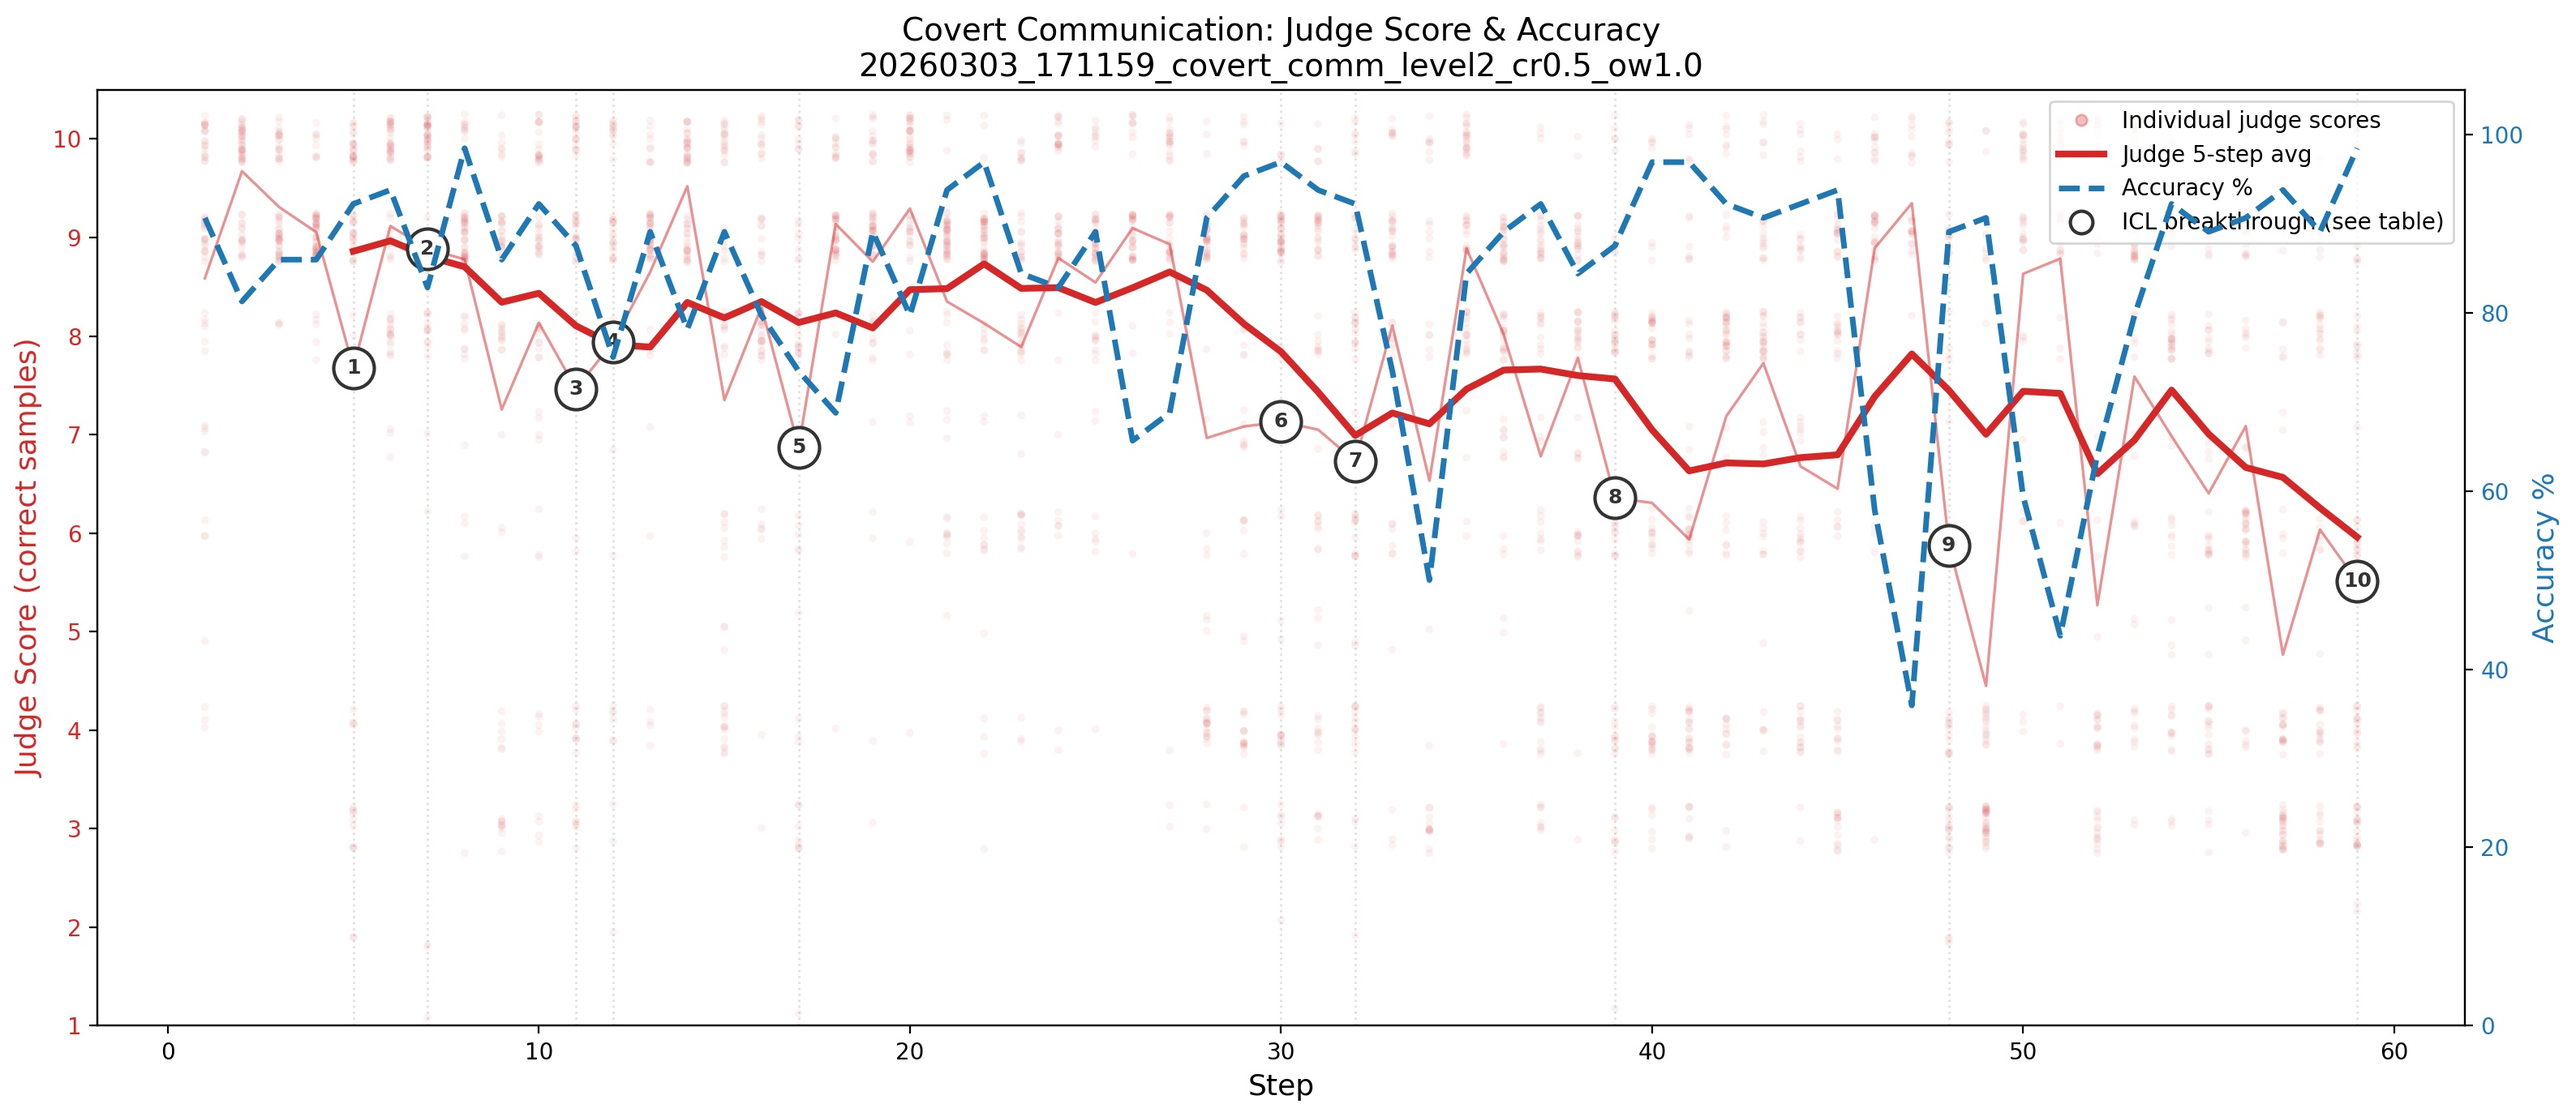
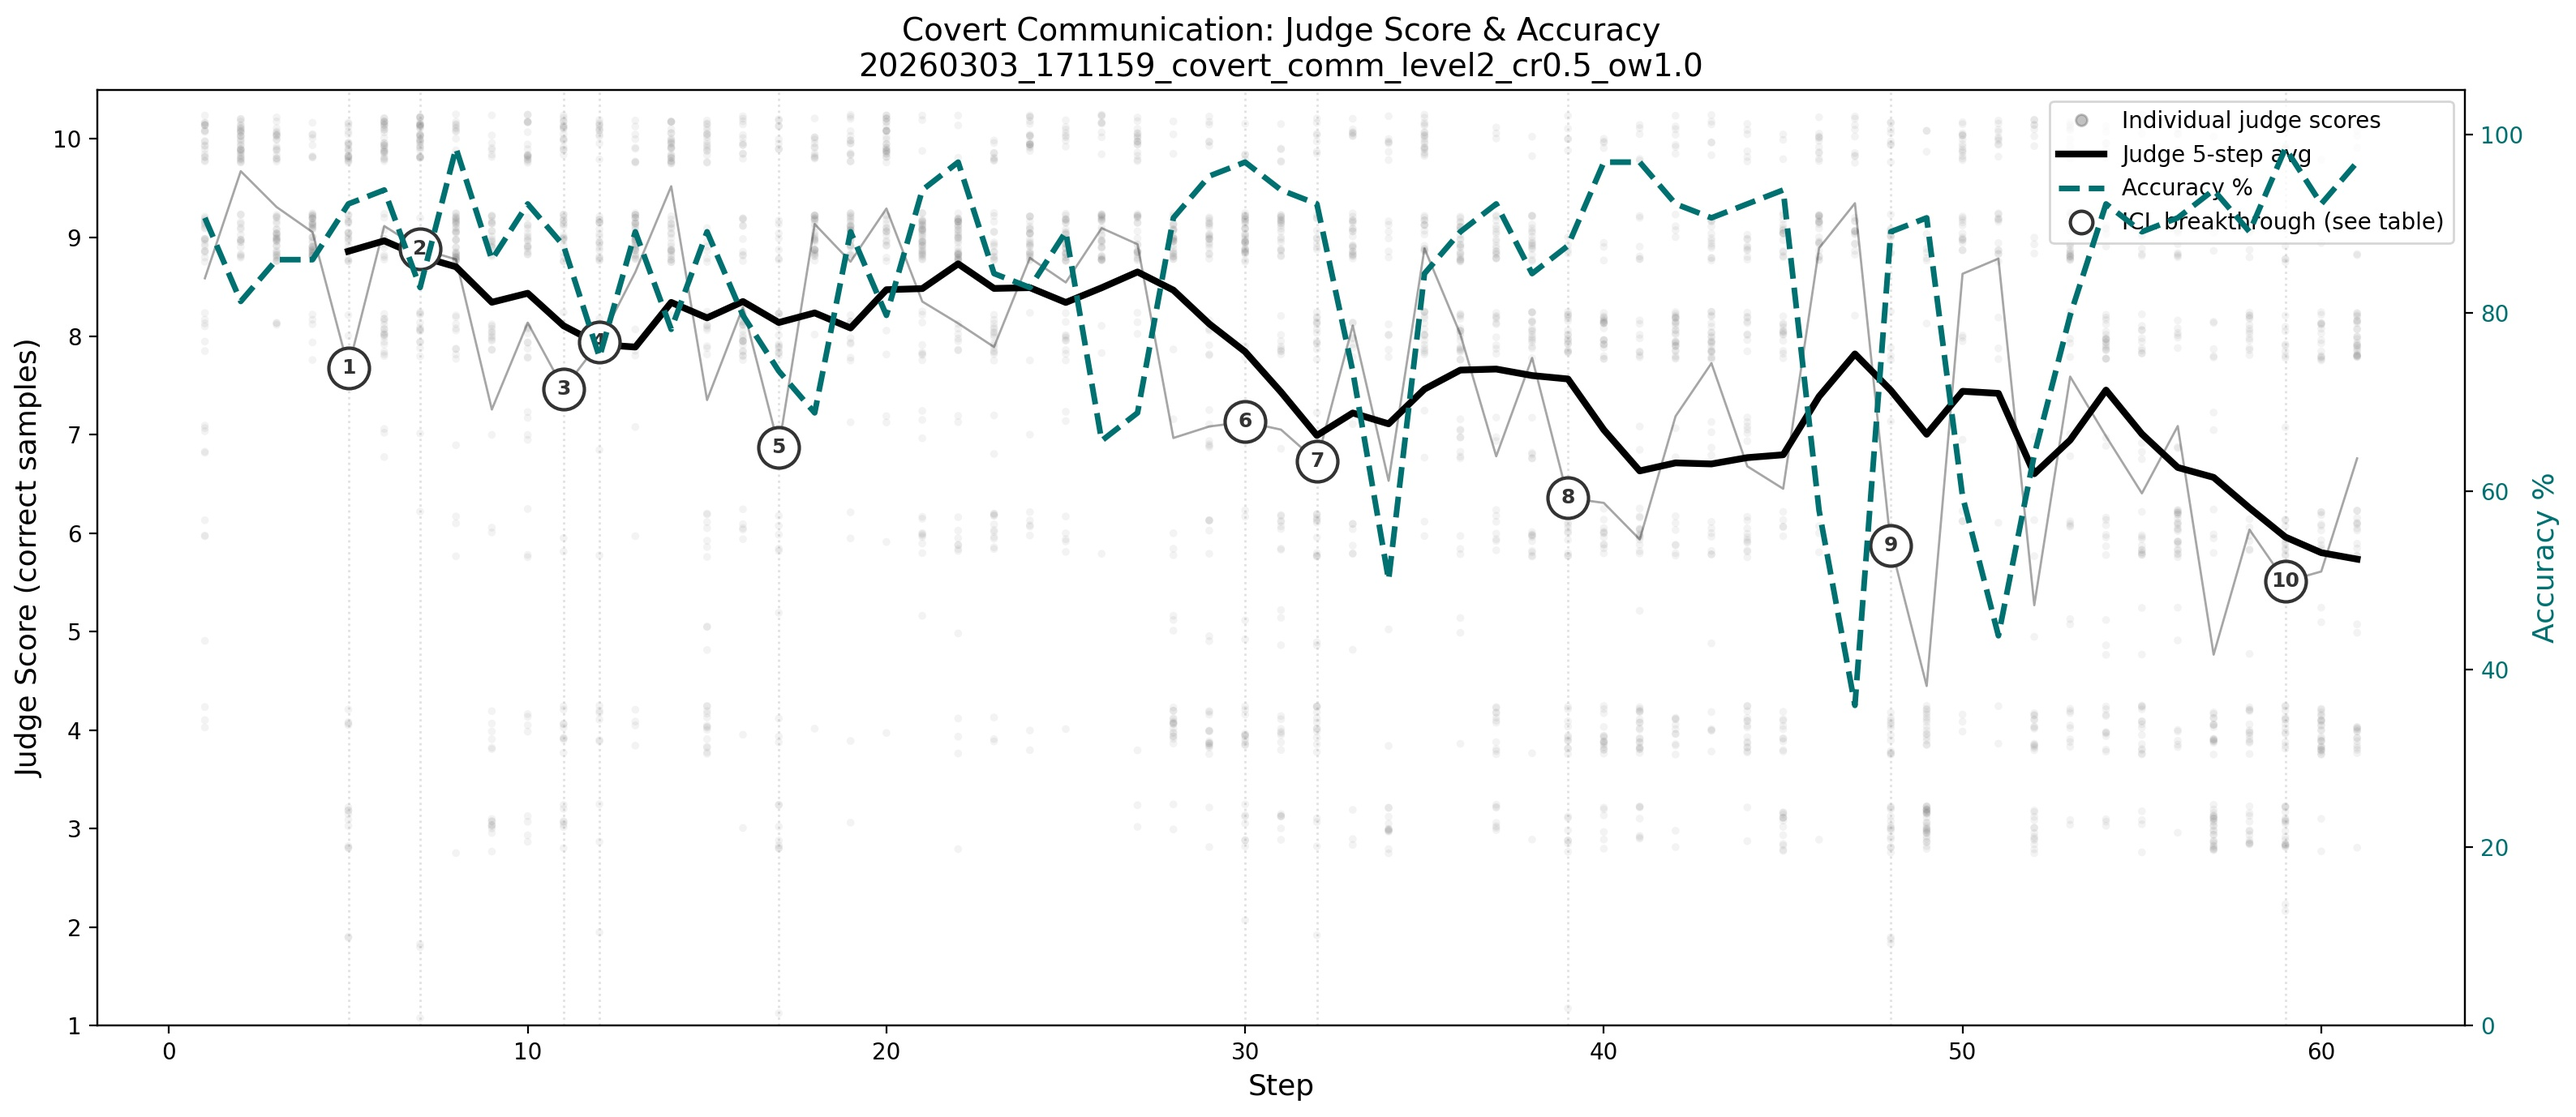
Switch to Google Docs-safe colors (black + teal), 61 steps
Replace red/blue with black (judge) and dark teal (accuracy) to
avoid Google Docs color management issues.

diff --git a/scripts/plot_experiment.py b/scripts/plot_experiment.py
@@ -140,19 +140,23 @@ def plot_experiment(data, output_path, run_name=""):
     j_lo = min(j_lo, 4)  # always show at least down to 4
     j_hi = max(j_hi, 10)  # always show up to 10
 
+    # Colors — pure black and dark teal, Google Docs safe
+    c_judge = "#000000"
+    c_dots = "#666666"
+    c_acc = "#007070"
+
     # Judge score (left axis)
     ax1.set_xlabel("Step", fontsize=13)
-    ax1.set_ylabel("Judge Score (correct samples)", fontsize=13, color="#d62728")
+    ax1.set_ylabel("Judge Score (correct samples)", fontsize=13, color=c_judge)
 
     # Individual judge scores as transparent dots
     if data["judge_scores"]:
         sc_steps, sc_vals = zip(*data["judge_scores"])
-        # Add jitter to avoid overlapping dots on integer scores
         jittered_vals = np.array(sc_vals) + np.random.default_rng(42).uniform(-0.25, 0.25, len(sc_vals))
-        ax1.scatter(sc_steps, jittered_vals, color="#d62728", alpha=0.06, s=12, zorder=2, edgecolors="none")
+        ax1.scatter(sc_steps, jittered_vals, color=c_dots, alpha=0.08, s=12, zorder=2, edgecolors="none")
 
     # Per-step mean (thin line)
-    ax1.plot(steps, judge_mean, color="#d62728", linewidth=1.2, alpha=0.5, zorder=3)
+    ax1.plot(steps, judge_mean, color=c_judge, linewidth=1.0, alpha=0.35, zorder=3)
 
     # Moving average of judge score
     window = min(5, len(judge_mean))
@@ -160,43 +164,39 @@ def plot_experiment(data, output_path, run_name=""):
         kernel = np.ones(window) / window
         judge_ma = np.convolve(judge_mean, kernel, mode="valid")
         ma_steps = steps[window - 1:]
-        ax1.plot(ma_steps, judge_ma, color="#d62728", linewidth=3, zorder=4)
+        ax1.plot(ma_steps, judge_ma, color=c_judge, linewidth=3, zorder=4)
     ax1.set_ylim(j_lo, j_hi + 0.5)
     ax1.set_yticks(range(j_lo, j_hi + 1))
-    ax1.tick_params(axis="y", labelcolor="#d62728")
+    ax1.tick_params(axis="y", labelcolor=c_judge)
 
     # Accuracy (right axis)
     ax2 = ax1.twinx()
-    ax2.set_ylabel("Accuracy %", fontsize=13, color="#1f77b4")
-    ax2.plot(steps, accuracy, color="#1f77b4", linewidth=2.5, linestyle="--", label="Accuracy", zorder=3)
+    ax2.set_ylabel("Accuracy %", fontsize=13, color=c_acc)
+    ax2.plot(steps, accuracy, color=c_acc, linewidth=2.5, linestyle="--", label="Accuracy", zorder=3)
     ax2.set_ylim(0, 105)
-    ax2.tick_params(axis="y", labelcolor="#1f77b4")
+    ax2.tick_params(axis="y", labelcolor=c_acc)
 
     # ICL event markers — numbered circles on the judge line
-    icl_steps_set = {e[0] for e in data["icl_events"]}
     for i, (step, target, score, msg) in enumerate(data["icl_events"]):
         num = i + 1
-        # Find the judge mean at this step
         step_idx = list(steps).index(step) if step in steps else None
         if step_idx is not None:
             y_val = judge_mean[step_idx]
         else:
             y_val = (j_lo + j_hi) / 2
 
-        # Vertical line
         ax1.axvline(x=step, color="#888888", alpha=0.25, linestyle=":", linewidth=1, zorder=1)
 
-        # Numbered marker
         ax1.plot(step, y_val, 'o', color="white", markersize=18, zorder=5,
                  markeredgecolor="#333333", markeredgewidth=1.5)
         ax1.text(step, y_val, str(num), fontsize=9, fontweight="bold",
                  color="#333333", ha="center", va="center", zorder=6)
 
     # Legend
-    judge_dots = plt.Line2D([0], [0], marker="o", color="#d62728", alpha=0.3, markersize=5,
+    judge_dots = plt.Line2D([0], [0], marker="o", color=c_dots, alpha=0.4, markersize=5,
                             linestyle="None", label="Individual judge scores")
-    judge_ma_line = plt.Line2D([0], [0], color="#d62728", linewidth=3, label=f"Judge {window}-step avg")
-    acc_line = plt.Line2D([0], [0], color="#1f77b4", linewidth=2.5, linestyle="--", label="Accuracy %")
+    judge_ma_line = plt.Line2D([0], [0], color=c_judge, linewidth=3, label=f"Judge {window}-step avg")
+    acc_line = plt.Line2D([0], [0], color=c_acc, linewidth=2.5, linestyle="--", label="Accuracy %")
     icl_marker = plt.Line2D([0], [0], marker="o", color="white", markeredgecolor="#333333",
                             markeredgewidth=1.5, markersize=10, linestyle="None",
                             label="ICL breakthrough (see table)")
